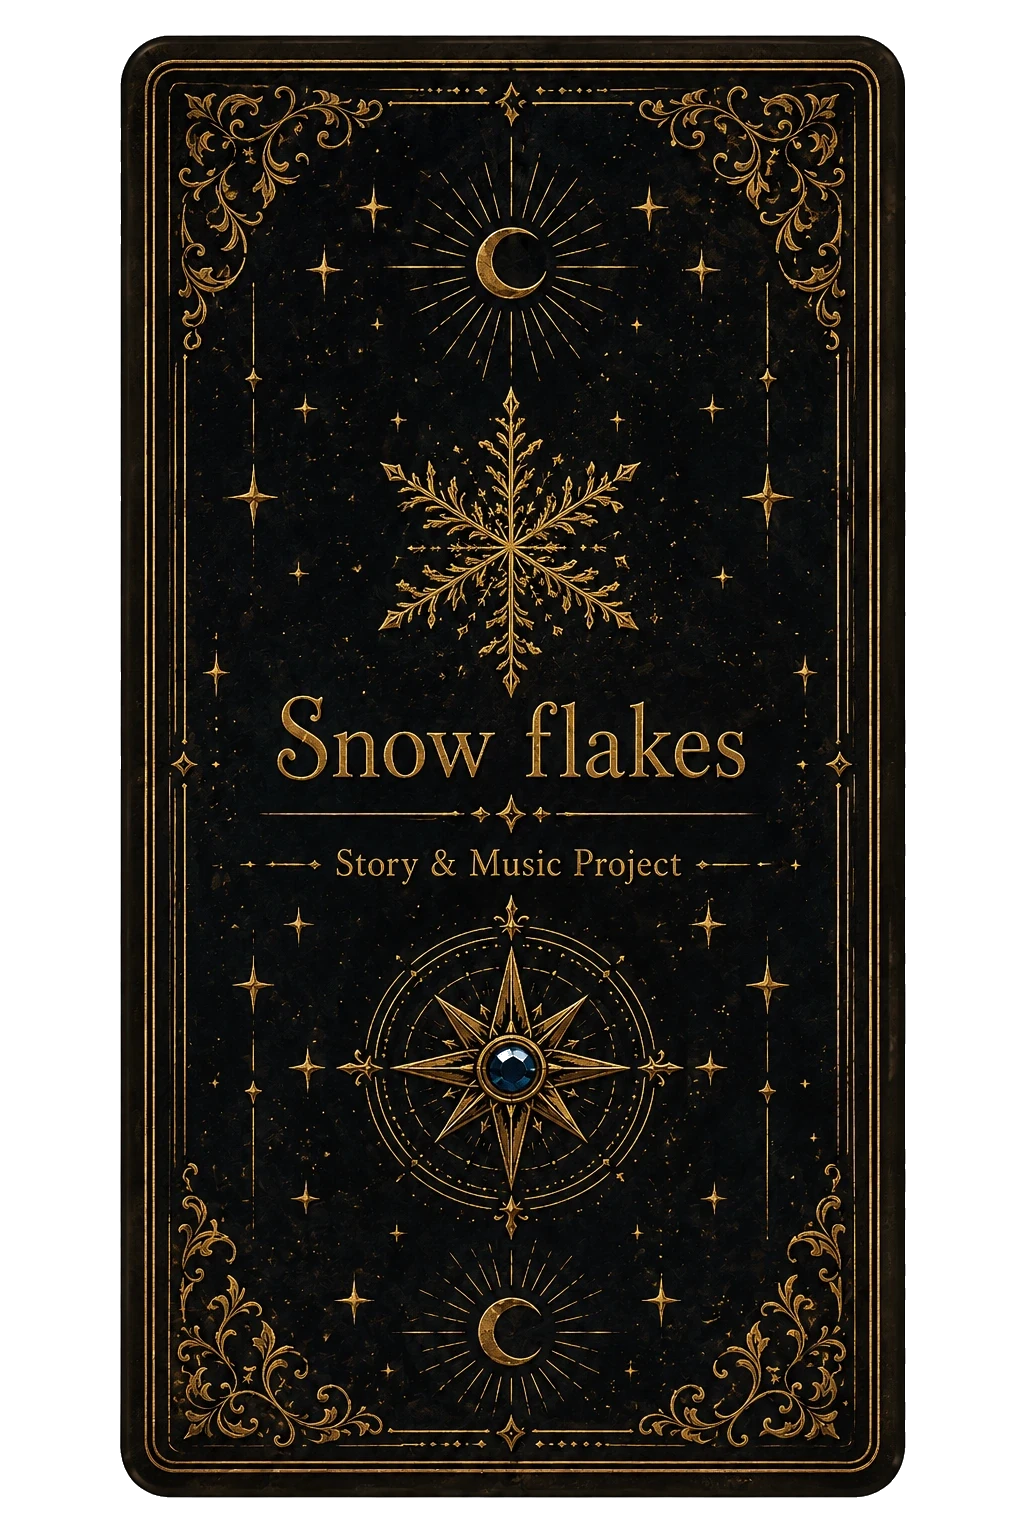
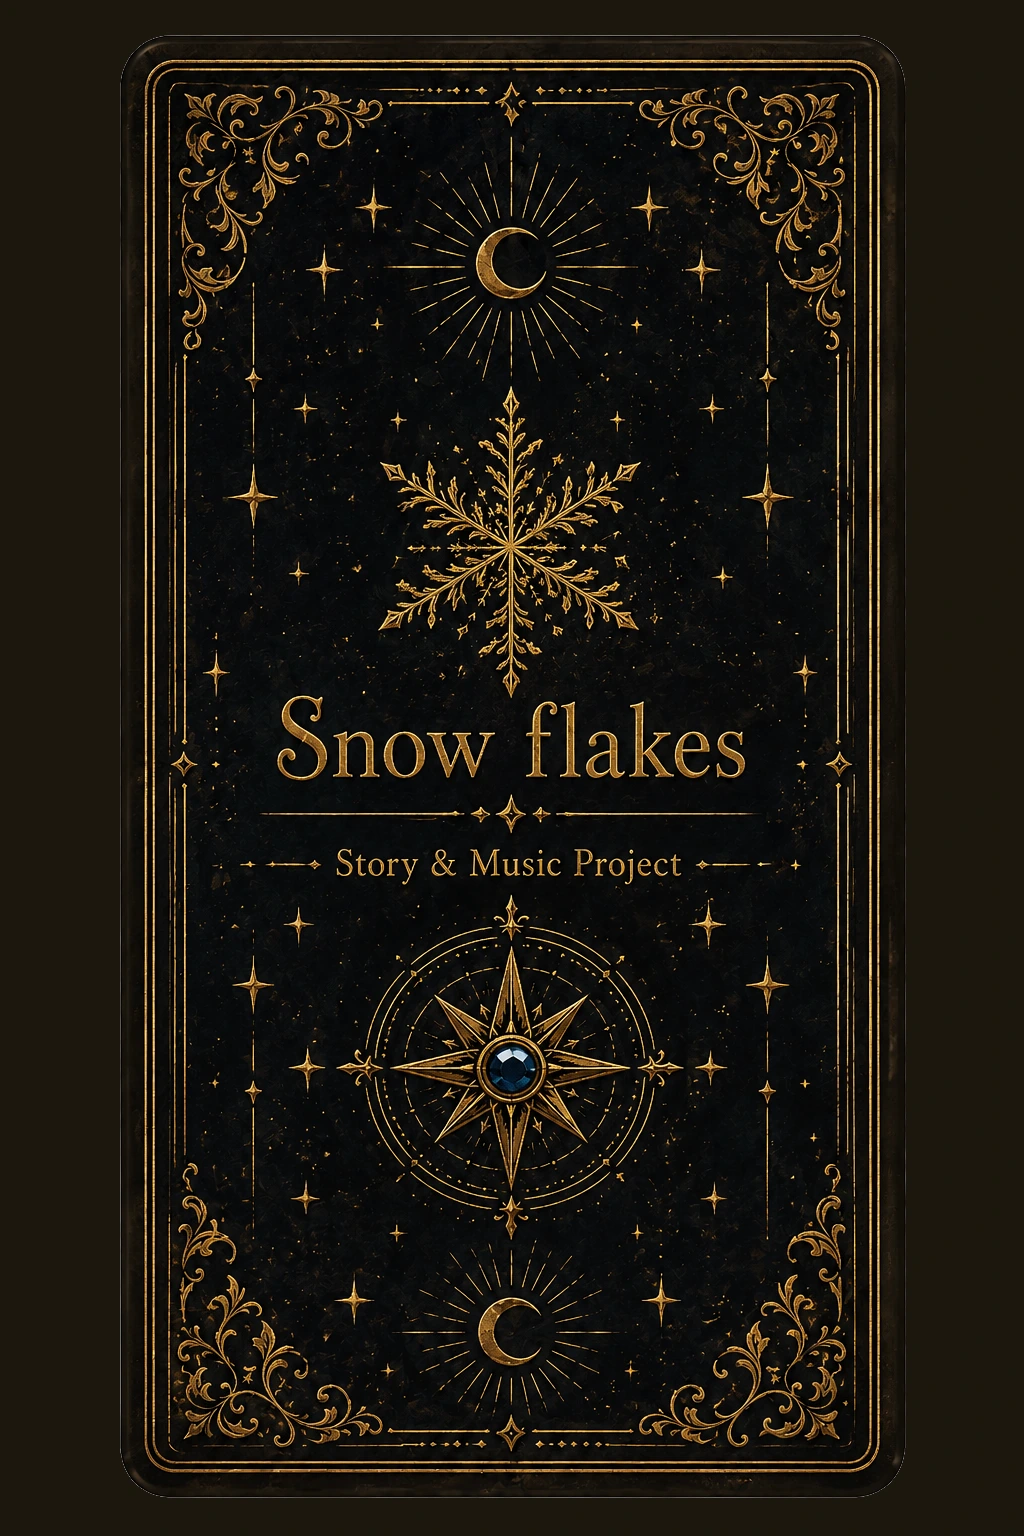
fix: 48hタイマー・カード画像・白枠修正
- 0-5読了後の1章48hタイマーが表示されないバグ修正（タイマー設定をseenProseScenes判定の外に移動）
- WHITE TAPEカード: card_back_a→card_back_bに統一
- card_back_b.webp: 透明背景を暗い茶色(#1c160d)に合成（白枠浮き解消）
- 不要ファイル削除: cards/772358f6-...webp

Changed region(s): [[0.0, 0.0, 1.0, 1.0]]

diff --git a/room/undertone/index.html b/room/undertone/index.html
@@ -2954,18 +2954,18 @@ function submitUtPw() {
     if (!ch) return;
     var _pendingComplete = null; // 閉じるボタン後に発火するチャプターコンプリート
     playProseSound(idx);
+    // 0-5を開いた時点でタイマー開始（既読済みでもセットされていなければ開始）
+    if (idx === 4 && !localStorage.getItem('sf_ut_ch1_unlock_at')) {
+      localStorage.setItem('sf_ut_ch1_unlock_at', String(Date.now()));
+      updateCh2Btn();
+      startCountdownTimers();
+    }
     // 既読フラグ
     if (!_seenProseScenes.has(idx)) {
       _seenProseScenes.add(idx);
       localStorage.setItem('sf_undertone_seen_prose', JSON.stringify([..._seenProseScenes]));
       // 鑑定ボタン解放（1-1読了後）
       if (idx === 5) updateAppraiseBtn();
-      // 0-5読了 → 1章24hタイマー開始
-      if (idx === 4 && !localStorage.getItem('sf_ut_ch1_unlock_at')) {
-        localStorage.setItem('sf_ut_ch1_unlock_at', String(Date.now()));
-        updateCh2Btn();
-        startCountdownTimers();
-      }
       // 章内タイムゲート：初回読了時にタイムスタンプ保存
       var _timedPrevIdxs = [5,6,7,8,10,11,12,13,15,16];
       if (_timedPrevIdxs.indexOf(idx) !== -1) {
@@ -4360,7 +4360,7 @@ function submitUtPw() {
     'JUDGEMENT':        'cards/20_judgement.webp',
     'WORLD':            'cards/21_world.webp',
     'THE PLACED SOUND': 'cards/ori_placed_sound.webp',
-    'WHITE TAPE':       'card_back_a.webp',
+    'WHITE TAPE':       'card_back_b.webp',
   };
   function getCardImg(card) { return CARD_IMGS[card.arch] || 'card_back_b.webp'; }
 
